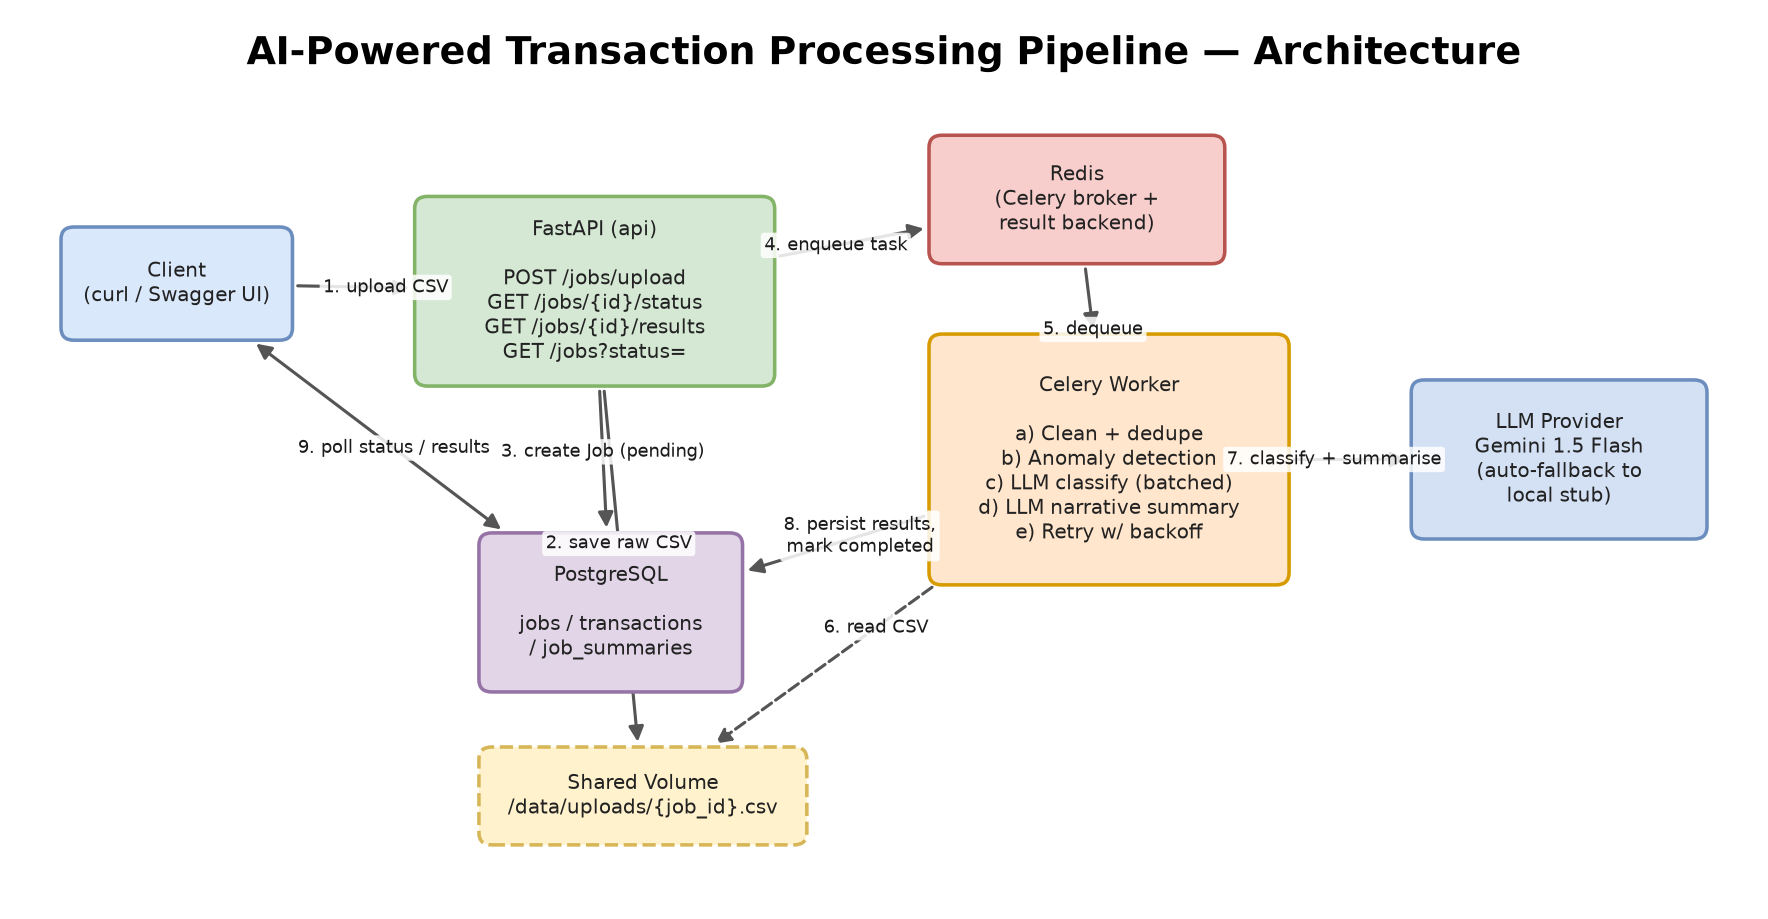
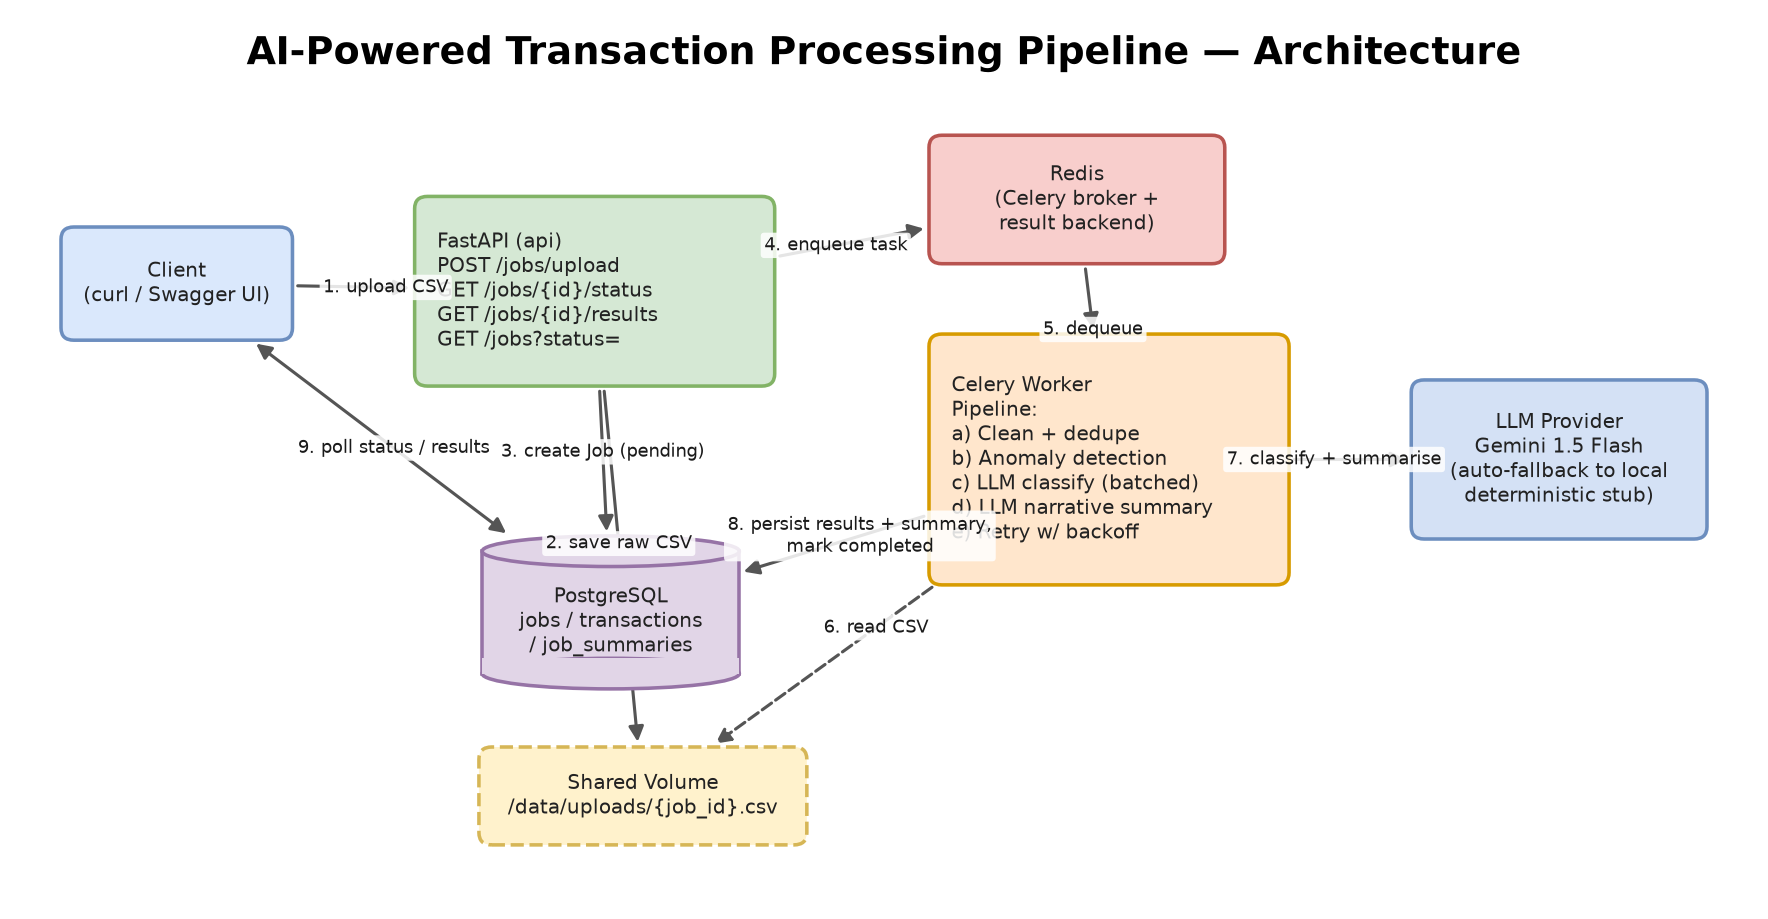
Align architecture PNG 1:1 with draw.io source
- Render PostgreSQL as a database cylinder (matches drawio cylinder3)
- Restore exact box text (LLM 'deterministic stub', worker 'Pipeline:' line)
- Use full edge label '8. persist results + summary, mark completed'
- Left-align api/worker text to match drawio alignment

Changed region(s): [[0.2489, 0.3961, 0.7155, 0.7617], [0.2489, 0.2437, 0.4044, 0.3961], [0.8088, 0.4875, 0.9333, 0.5484]]

diff --git a/docs/render_architecture.py b/docs/render_architecture.py
@@ -1,7 +1,8 @@
 """Render docs/architecture.drawio to a PNG that mirrors the same diagram.
 
-Coordinates are taken directly from the mxGeometry values in architecture.drawio
-so the PNG matches the editable diagram. Run: python docs/render_architecture.py
+Box coordinates, colours, shapes, text, alignment and the 9 numbered edges are
+taken directly from architecture.drawio so the PNG is a faithful 1:1 export.
+Run: python docs/render_architecture.py
 """
 
 from __future__ import annotations
@@ -12,7 +13,7 @@ import matplotlib
 
 matplotlib.use("Agg")
 import matplotlib.pyplot as plt
-from matplotlib.patches import FancyArrowPatch, FancyBboxPatch
+from matplotlib.patches import Ellipse, FancyArrowPatch, FancyBboxPatch, Rectangle
 
 MAXY = 560  # drawio y grows downward; flip into matplotlib's upward y-axis.
 
@@ -25,30 +26,46 @@ PURPLE = ("#e1d5e7", "#9673a6")
 YELLOW = ("#fff2cc", "#d6b656")
 LLMBLUE = ("#d4e1f5", "#6c8ebf")
 
-# id -> (x, y, w, h, label, colors, dashed)
+# id -> dict(x, y, w, h, text, colors, align, shape, dashed)  -- text matches drawio
 BOXES = {
-    "client": (60, 120, 140, 70, "Client\n(curl / Swagger UI)", BLUE, False),
-    "api": (
-        280, 100, 220, 120,
-        "FastAPI (api)\n\nPOST /jobs/upload\nGET /jobs/{id}/status\nGET /jobs/{id}/results\nGET /jobs?status=",
-        GREEN, False,
+    "client": dict(
+        x=60, y=120, w=140, h=70,
+        text="Client\n(curl / Swagger UI)",
+        colors=BLUE, align="center", shape="round", dashed=False,
     ),
-    "redis": (600, 60, 180, 80, "Redis\n(Celery broker +\nresult backend)", RED, False),
-    "worker": (
-        600, 190, 220, 160,
-        "Celery Worker\n\na) Clean + dedupe\nb) Anomaly detection\nc) LLM classify (batched)\nd) LLM narrative summary\ne) Retry w/ backoff",
-        ORANGE, False,
+    "api": dict(
+        x=280, y=100, w=220, h=120,
+        text="FastAPI (api)\nPOST /jobs/upload\nGET /jobs/{id}/status\nGET /jobs/{id}/results\nGET /jobs?status=",
+        colors=GREEN, align="left", shape="round", dashed=False,
     ),
-    "db": (320, 320, 160, 100, "PostgreSQL\n\njobs / transactions\n/ job_summaries", PURPLE, False),
-    "volume": (320, 460, 200, 60, "Shared Volume\n/data/uploads/{job_id}.csv", YELLOW, True),
-    "llm": (
-        900, 220, 180, 100,
-        "LLM Provider\nGemini 1.5 Flash\n(auto-fallback to\nlocal stub)",
-        LLMBLUE, False,
+    "redis": dict(
+        x=600, y=60, w=180, h=80,
+        text="Redis\n(Celery broker +\nresult backend)",
+        colors=RED, align="center", shape="round", dashed=False,
+    ),
+    "worker": dict(
+        x=600, y=190, w=220, h=160,
+        text="Celery Worker\nPipeline:\na) Clean + dedupe\nb) Anomaly detection\nc) LLM classify (batched)\nd) LLM narrative summary\ne) Retry w/ backoff",
+        colors=ORANGE, align="left", shape="round", dashed=False,
+    ),
+    "db": dict(
+        x=320, y=320, w=160, h=100,
+        text="PostgreSQL\njobs / transactions\n/ job_summaries",
+        colors=PURPLE, align="center", shape="cylinder", dashed=False,
+    ),
+    "volume": dict(
+        x=320, y=460, w=200, h=60,
+        text="Shared Volume\n/data/uploads/{job_id}.csv",
+        colors=YELLOW, align="center", shape="round", dashed=True,
+    ),
+    "llm": dict(
+        x=900, y=220, w=180, h=100,
+        text="LLM Provider\nGemini 1.5 Flash\n(auto-fallback to local\ndeterministic stub)",
+        colors=LLMBLUE, align="center", shape="round", dashed=False,
     ),
 }
 
-# source, target, label, dashed, double-headed
+# source, target, label, dashed, double-headed  -- labels match drawio
 EDGES = [
     ("client", "api", "1. upload CSV", False, False),
     ("api", "volume", "2. save raw CSV", False, False),
@@ -57,19 +74,41 @@ EDGES = [
     ("redis", "worker", "5. dequeue", False, False),
     ("worker", "volume", "6. read CSV", True, False),
     ("worker", "llm", "7. classify + summarise", False, False),
-    ("worker", "db", "8. persist results,\nmark completed", False, False),
+    ("worker", "db", "8. persist results + summary,\nmark completed", False, False),
     ("client", "db", "9. poll status / results", False, True),
 ]
 
 
-def rect_xy(x, y, w, h):
-    """drawio top-left (x,y,w,h) -> matplotlib lower-left (x, y')."""
-    return x, MAXY - y - h, w, h
+def mpl_rect(b):
+    """drawio top-left (x,y,w,h) -> matplotlib lower-left (x, y', w, h)."""
+    return b["x"], MAXY - b["y"] - b["h"], b["w"], b["h"]
 
 
-def center(box):
-    x, y, w, h = box[:4]
-    return x + w / 2, MAXY - y - h / 2
+def center(b):
+    return b["x"] + b["w"] / 2, MAXY - b["y"] - b["h"] / 2
+
+
+def add_cylinder(ax, b):
+    """Render a database-cylinder shape (matches drawio cylinder3)."""
+    x, y, w, h = mpl_rect(b)
+    fill, stroke = b["colors"]
+    eh = 20  # ellipse height
+    # Body.
+    ax.add_patch(Rectangle((x, y + eh / 2), w, h - eh, facecolor=fill, edgecolor="none", zorder=1))
+    # Side walls.
+    ax.plot([x, x], [y + eh / 2, y + h - eh / 2], color=stroke, lw=1.6, zorder=2)
+    ax.plot([x + w, x + w], [y + eh / 2, y + h - eh / 2], color=stroke, lw=1.6, zorder=2)
+    # Bottom curve (front half only).
+    ax.add_patch(
+        Ellipse((x + w / 2, y + eh / 2), w, eh, facecolor=fill, edgecolor=stroke, lw=1.6, zorder=2)
+    )
+    ax.add_patch(Rectangle((x, y + eh / 2), w, eh / 2, facecolor=fill, edgecolor="none", zorder=3))
+    # Top ellipse.
+    ax.add_patch(
+        Ellipse(
+            (x + w / 2, y + h - eh / 2), w, eh, facecolor=fill, edgecolor=stroke, lw=1.6, zorder=4
+        )
+    )
 
 
 def main() -> None:
@@ -84,18 +123,34 @@ def main() -> None:
     )
 
     patches = {}
-    for key, (x, y, w, h, label, (fill, stroke), dashed) in BOXES.items():
-        rx, ry, rw, rh = rect_xy(x, y, w, h)
-        patch = FancyBboxPatch(
-            (rx, ry), rw, rh,
-            boxstyle="round,pad=2,rounding_size=8",
-            linewidth=1.6, edgecolor=stroke, facecolor=fill,
-            linestyle="--" if dashed else "-", mutation_aspect=1,
-        )
-        ax.add_patch(patch)
+    for key, b in BOXES.items():
+        x, y, w, h = mpl_rect(b)
+        fill, stroke = b["colors"]
+        if b["shape"] == "cylinder":
+            add_cylinder(ax, b)
+            # Invisible bbox patch for arrow clipping.
+            patch = Rectangle((x, y), w, h, facecolor="none", edgecolor="none")
+            ax.add_patch(patch)
+        else:
+            patch = FancyBboxPatch(
+                (x, y), w, h,
+                boxstyle="round,pad=2,rounding_size=8",
+                linewidth=1.6, edgecolor=stroke, facecolor=fill,
+                linestyle="--" if b["dashed"] else "-", mutation_aspect=1, zorder=1,
+            )
+            ax.add_patch(patch)
         patches[key] = patch
-        cx, cy = center(BOXES[key])
-        ax.text(cx, cy, label, ha="center", va="center", fontsize=9.2, color="#222222")
+
+        cx, cy = center(b)
+        if b["align"] == "left":
+            ax.text(
+                x + 12, cy, b["text"], ha="left", va="center", fontsize=9.2,
+                color="#222222", zorder=5,
+            )
+        else:
+            ty = cy if b["shape"] != "cylinder" else cy - 6
+            ax.text(cx, ty, b["text"], ha="center", va="center", fontsize=9.2,
+                    color="#222222", zorder=5)
 
     for src, dst, label, dashed, double in EDGES:
         c1 = center(BOXES[src])
@@ -112,7 +167,7 @@ def main() -> None:
         mx, my = (c1[0] + c2[0]) / 2, (c1[1] + c2[1]) / 2
         ax.text(
             mx, my, label, ha="center", va="center", fontsize=8,
-            color="#1a1a1a",
+            color="#1a1a1a", zorder=6,
             bbox=dict(boxstyle="round,pad=0.2", fc="white", ec="none", alpha=0.85),
         )
 